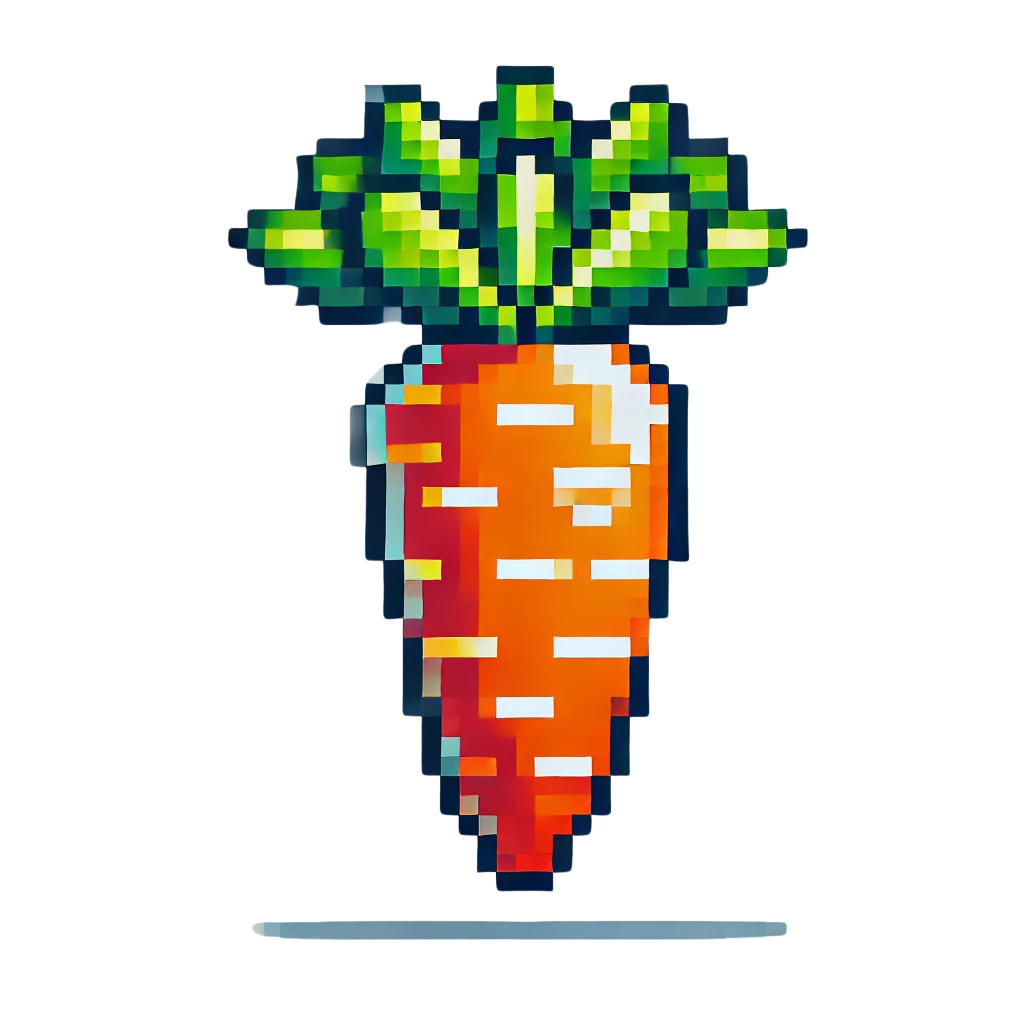
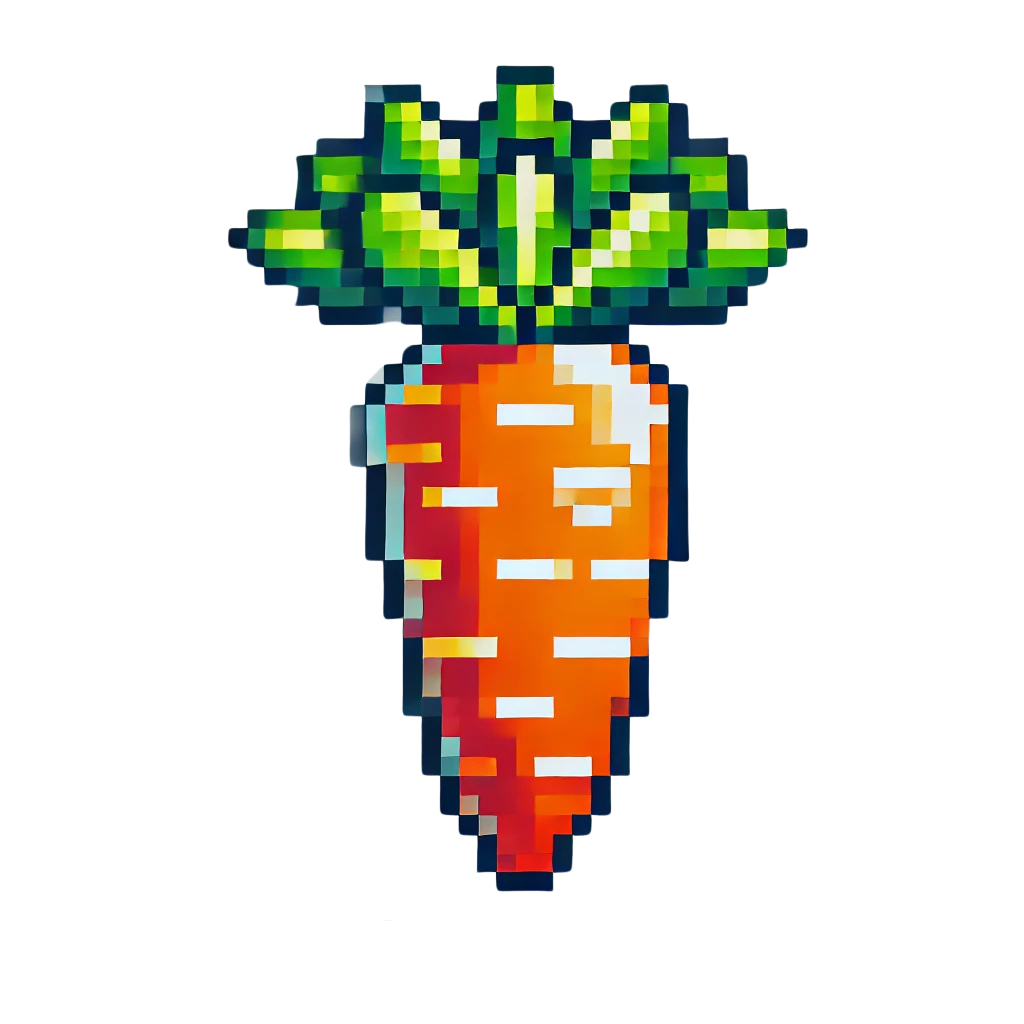
asset updates

Changed region(s): [[0.25, 0.875, 0.7812, 0.9375]]

diff --git a/config.js b/config.js
@@ -74,7 +74,7 @@ const config = {
         },
         {
             name: 'bonus',
-            src: 'images/bonus.webp',
+            src: 'images/bonus.png',
             weight: 0,
             isbonus: true,
             paytable: {},
